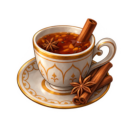
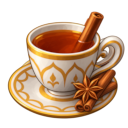
added spiced tea production

diff --git a/.misc_data/needed Localization.md b/.misc_data/needed Localization.md
@@ -7,10 +7,10 @@
 - 1404005014:
   - Einige Bienenstöcke produzieren Honig und machen Farmen effizienter.
 - 1404005015:
-  - Der Honig der Bienen, gewonnen aus den Dattelpalmen, ist ein sehr begehrter Rohstoff
+  - Der Honig der Bienen, gewonnen aus den Dattelpalmen, ist ein sehr begehrter Rohstoff.
 - 1404005017:
   - Bestäubung
 - 1404005019:
-  - Durch die Hilfe der Bienen bei der Bestäubung werden unsere Farmen noch effizienter
+  - Durch die Hilfe der Bienen bei der Bestäubung werden unsere Farmen noch effizienter.
 - 1404005018:
   - alle Nutzpflanzenfarmen des Orients
